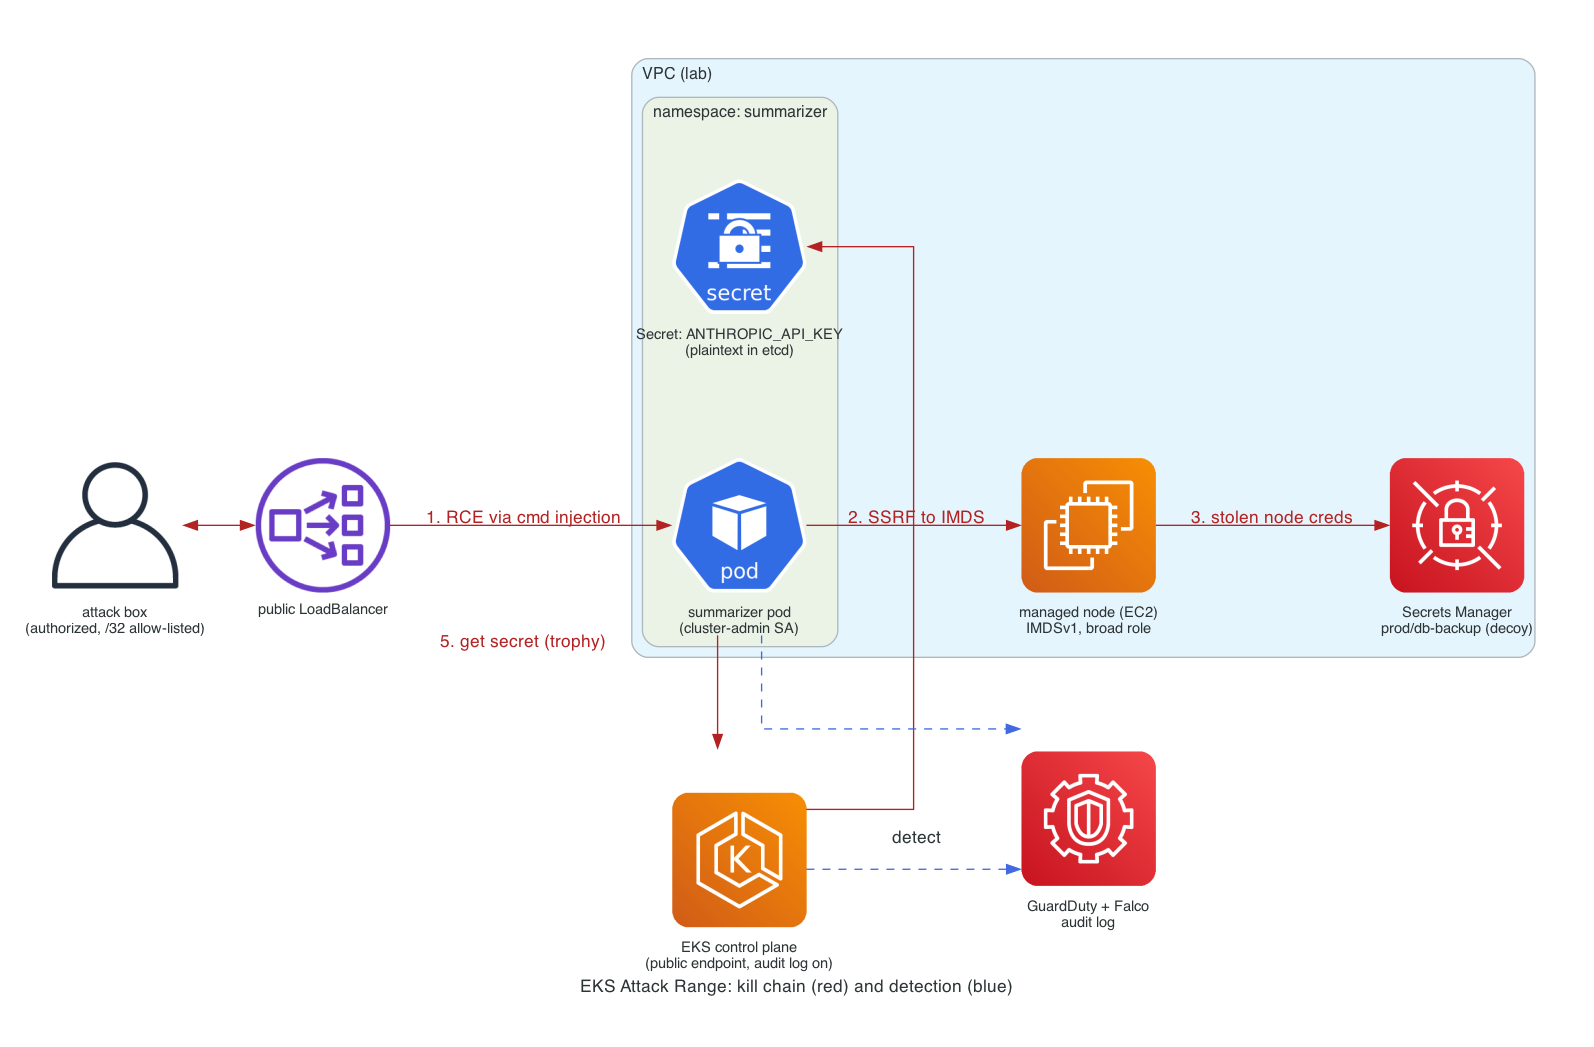
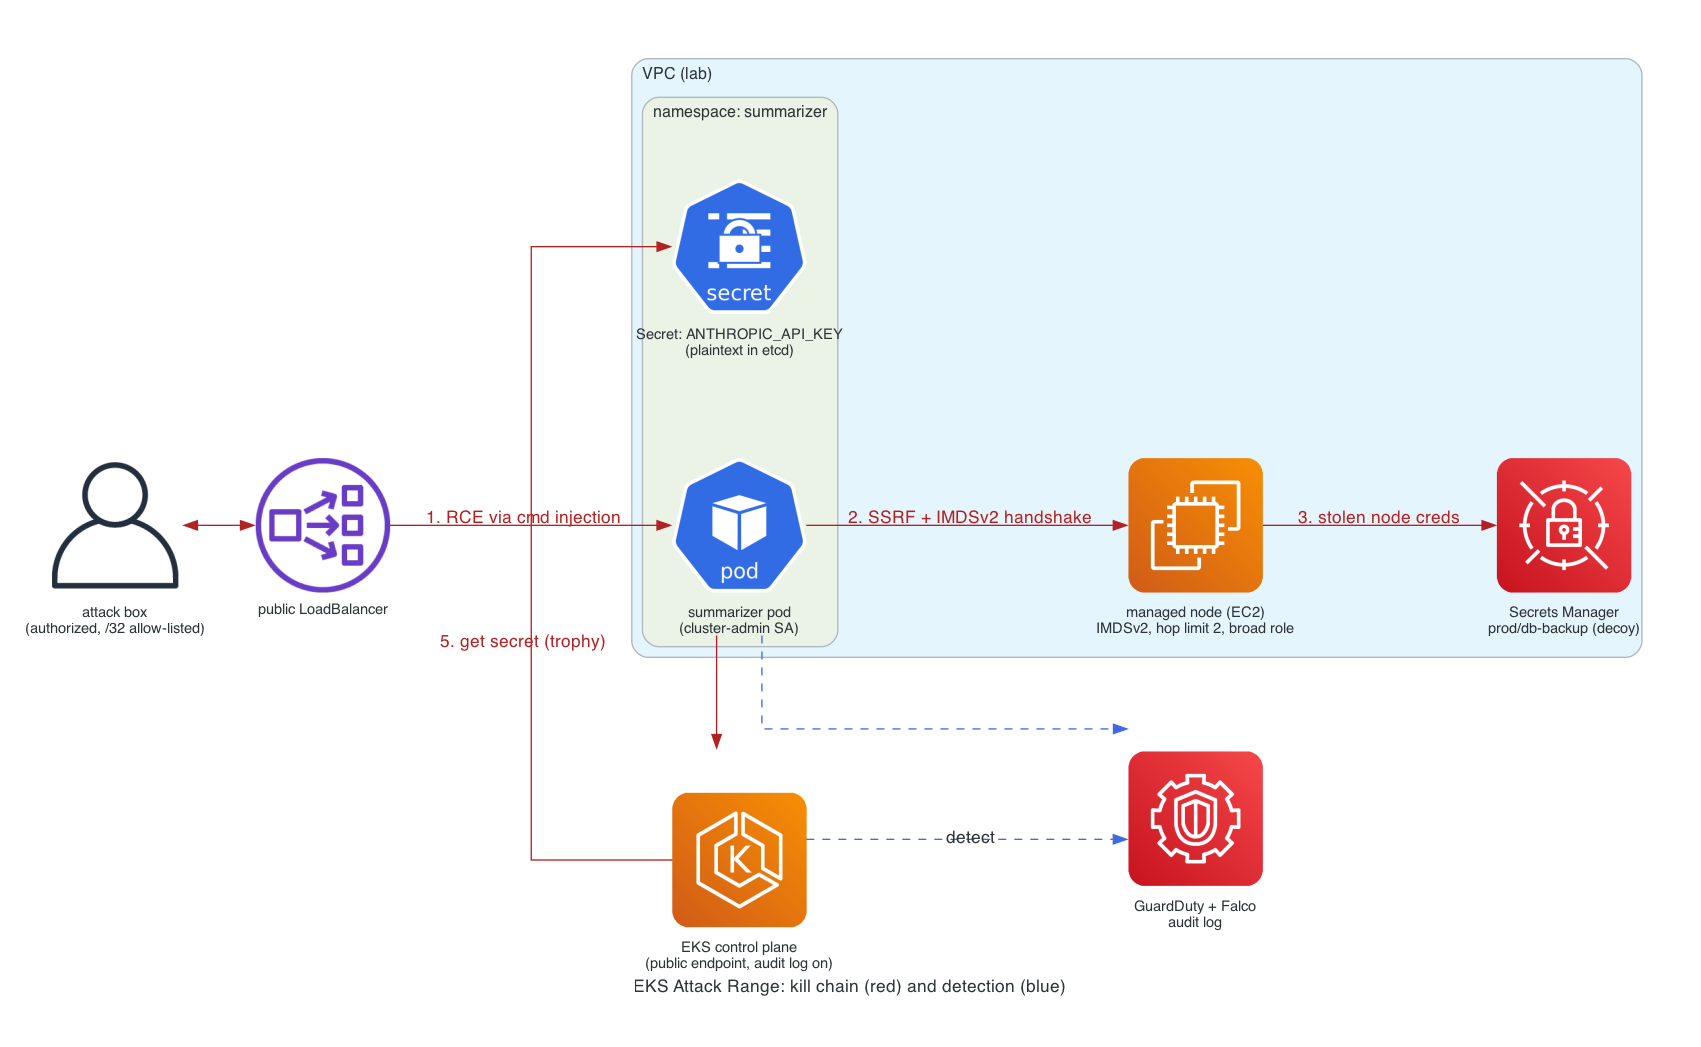
Diagram: node reflects IMDSv2 + hop limit 2, stage 2 is the IMDSv2 handshake

diff --git a/docs/diagram.py b/docs/diagram.py
@@ -30,7 +30,7 @@ with Diagram(
     guard = Guardduty("GuardDuty + Falco\naudit log")
 
     with Cluster("VPC (lab)"):
-        node = EC2("managed node (EC2)\nIMDSv1, broad role")
+        node = EC2("managed node (EC2)\nIMDSv2, hop limit 2, broad role")
         with Cluster("namespace: summarizer"):
             pod = Pod("summarizer pod\n(cluster-admin SA)")
             trophy = Secret("Secret: ANTHROPIC_API_KEY\n(plaintext in etcd)")
@@ -38,7 +38,7 @@ with Diagram(
 
     attacker >> red << nlb
     nlb >> Edge(label="1. RCE via cmd injection", **red.attrs) >> pod
-    pod >> Edge(label="2. SSRF to IMDS", **red.attrs) >> node
+    pod >> Edge(label="2. SSRF + IMDSv2 handshake", **red.attrs) >> node
     node >> Edge(label="3. stolen node creds", **red.attrs) >> loot
     pod >> Edge(label="4. SA token -> cluster-admin", **red.attrs) >> eks
     eks >> Edge(label="5. get secret (trophy)", **red.attrs) >> trophy
